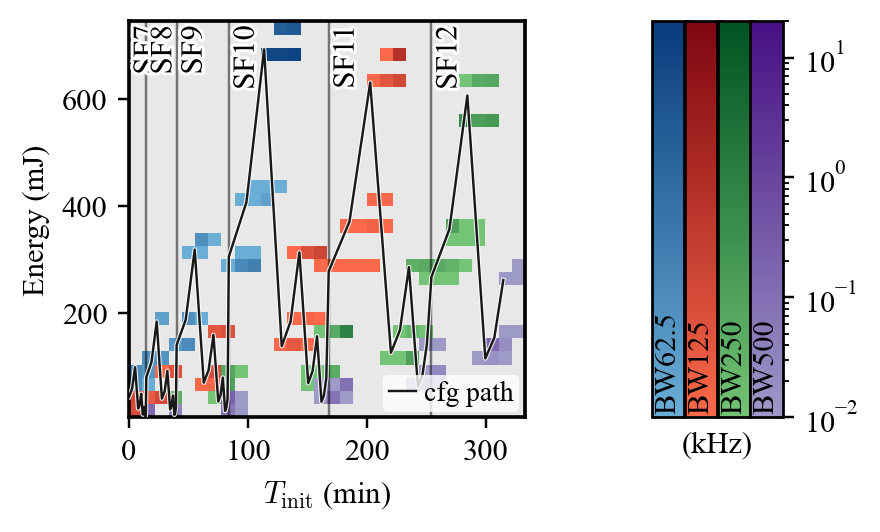
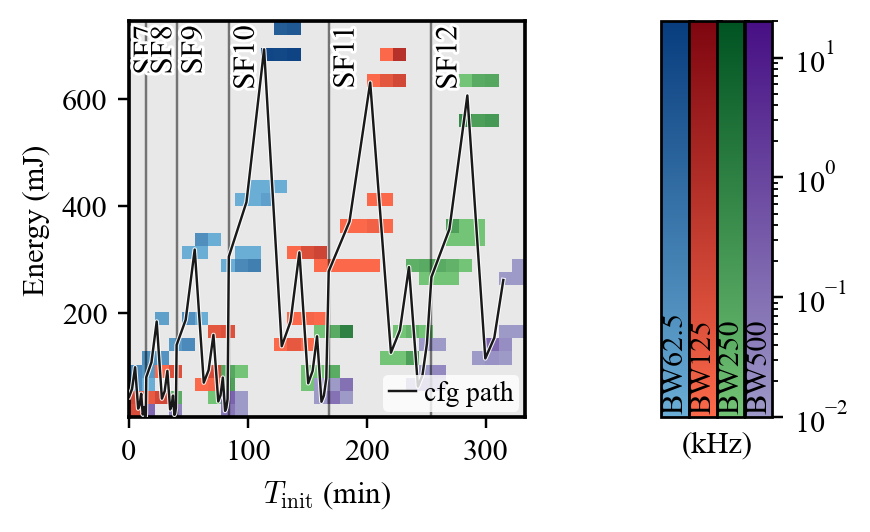
asdfasd

diff --git a/tools/plots/plot_per_gradient_energy_vs_time.py b/tools/plots/plot_per_gradient_energy_vs_time.py
@@ -849,7 +849,7 @@ def plot_combined_heatmap(output_dir, config_dir, data_root, filters, time_bins,
     """Combined PER heatmap with annotated SF/BW config regions showing performance-energy patterns."""
     print(f"Rendering combined heatmap{suffix}...")
     fig = plt.figure(figsize=FIGSIZE_TWO_COL)
-    gs = GridSpec(1, 2, figure=fig, width_ratios=[1, 0.12], wspace=0)
+    gs = GridSpec(1, 2, figure=fig, width_ratios=[1, 0.10], wspace=0)
     ax = fig.add_subplot(gs[0])
     ax.set_facecolor(BG_DARK)
     for spine in ax.spines.values():
@@ -912,10 +912,10 @@ def plot_combined_heatmap(output_dir, config_dir, data_root, filters, time_bins,
             
             
             if idx < 3:
-                x_label = ts_c + (t_max - t_min) * 0.012
+                x_label = ts_c + (t_max - t_min) * 0.028
                 if idx < 1:
-                    x_label = ts_c + (t_max - t_min) * 0.012
-                y_label = e_max - e_range * 0.2
+                    x_label = ts_c + (t_max - t_min) * 0.010
+                y_label = e_max - e_range * 0.13
             else:
                 x_label = ts_c + (t_max - t_min) * 0.012
                 y_label = e_max - e_range * 0.09
@@ -936,11 +936,15 @@ def plot_combined_heatmap(output_dir, config_dir, data_root, filters, time_bins,
                     # PER % — vertical for first two SFs, horizontal for the rest
                     y_per = e_max - e_range*0.015
                     if idx < 3:
-                        sub = ax.text(x_label, y_per - e_range*0.15, f"{per_val:.1f}%", ha="left", va="top",
+                        sub = ax.text(x_label, y_per - e_range*0.09, f"{per_val:.1f}", ha="left", va="top",
                                      fontsize=IEEE_FONTSIZE, color="black", zorder=6,
                                      rotation=90, rotation_mode="anchor")
+                    elif idx == 5:
+                        sub = ax.text(x_label, y_per, f"{per_val:.1f} (%)", ha="left", va="top",
+                                     fontsize=IEEE_FONTSIZE, color="black", zorder=6,
+                                     rotation=0, rotation_mode="anchor")
                     else:
-                        sub = ax.text(x_label, y_per, f"{per_val:.1f}%", ha="left", va="top",
+                        sub = ax.text(x_label, y_per, f"{per_val:.1f}", ha="left", va="top",
                                      fontsize=IEEE_FONTSIZE, color="black", zorder=6,
                                      rotation=0, rotation_mode="anchor")
                     sub.set_path_effects([patheffects.withStroke(linewidth=2, foreground="white")])
@@ -991,7 +995,7 @@ def plot_param_transitions_bw(output_dir, config_dir, data_root, filters, time_b
     """BW transitions: one color-to-black cmap per BW, annotated BW region bands with SF separators."""
     print(f"Rendering BW transition heatmap{output_suffix}...")
     fig = plt.figure(figsize=FIGSIZE_TWO_COL)
-    gs = GridSpec(1, 2, figure=fig, width_ratios=[1, 0.12], wspace=0.0014)
+    gs = GridSpec(1, 2, figure=fig, width_ratios=[1, 0.10], wspace=0.0)
     ax = fig.add_subplot(gs[0])
     _reserve_bottom_space_for_scale_labels(ax)
     ax.set_facecolor(BG_DARK)
@@ -1103,7 +1107,7 @@ def plot_param_transitions_sf(output_dir, config_dir, data_root, filters, time_b
     """SF transitions: one color-to-black cmap per SF, annotated SF region bands with BW separators and PER stats."""
     print(f"Rendering SF transition heatmap{output_suffix}...")
     fig = plt.figure(figsize=FIGSIZE_TWO_COL)
-    gs = GridSpec(1, 2, figure=fig, width_ratios=[1, 0.12], wspace=0.0014)
+    gs = GridSpec(1, 2, figure=fig, width_ratios=[1, 0.10], wspace=0.0)
     ax = fig.add_subplot(gs[0])
     _reserve_bottom_space_for_scale_labels(ax)
     ax.set_facecolor(BG_DARK)
@@ -1211,8 +1215,8 @@ def plot_param_transitions_sf(output_dir, config_dir, data_root, filters, time_b
 def plot_param_transitions_tp(output_dir, config_dir, data_root, filters, time_bins, energy_bins, t_min, t_max, e_min, e_max, vmin, vmax, log_vmin, build_matrix_fn, mat_combined=None, output_suffix="", pts=None):
     """TP transitions: one color-to-black cmap per TP, annotated SF region bands with BW separators."""
     print(f"Rendering TP transition heatmap{output_suffix}...")
-    fig = plt.figure(figsize=FIGSIZE_TWO_COL)
-    gs = GridSpec(1, 2, figure=fig, width_ratios=[1, 0.12], wspace=0.0014)
+    fig = plt.figure(figsize=FIGSIZE_ONE_COL)
+    gs = GridSpec(1, 2, figure=fig, width_ratios=[1, 0.10], wspace=0.0)
     ax = fig.add_subplot(gs[0])
     _reserve_bottom_space_for_scale_labels(ax)
     ax.set_facecolor(BG_DARK)
